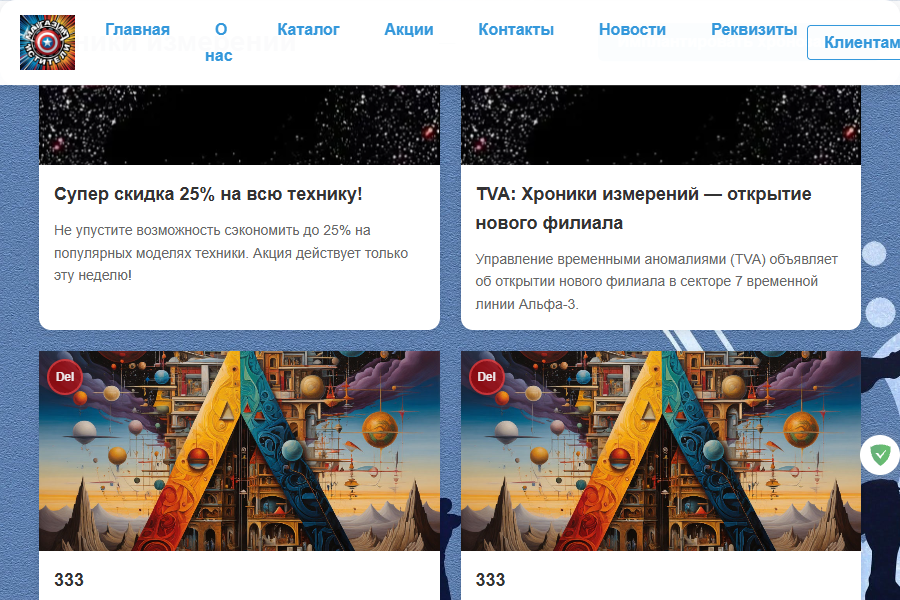
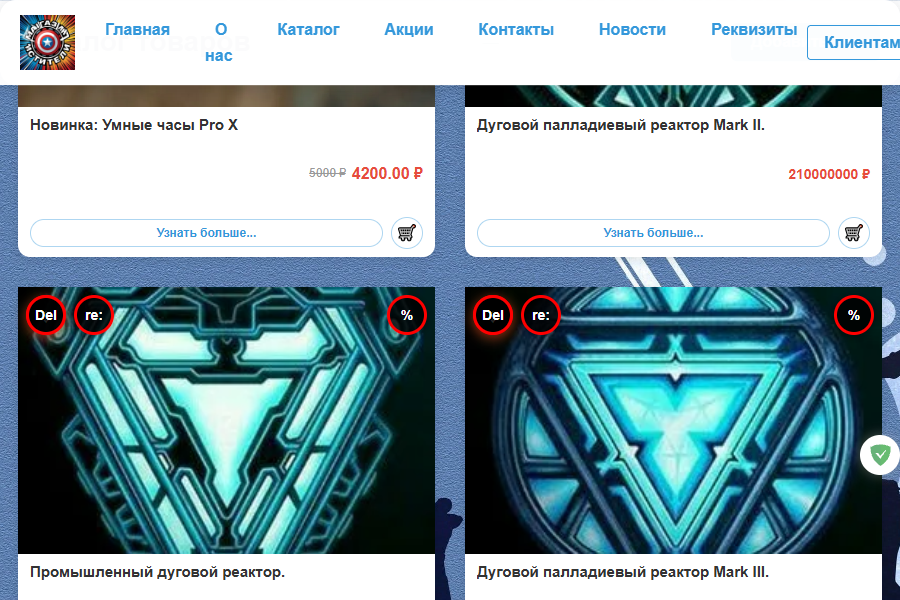
0294

diff --git a/static/js/card-constructor.js b/static/js/card-constructor.js
@@ -66,6 +66,9 @@ export class CardConstructor {
             ? `<div class="discount-badge"><span class="discount-badge-text">${discount}<small>%</small></span></div>`
             : '';
 
+        // Кнопка H (Hidden) — переместить в таблицу (видна всем, временно)
+        const moveBtnHtml = `<button class="ctrl-btn move-btn" data-id="${item.id}" title="Переместить в таблицу">H</button>`;
+
         // Кнопка Del — видна всем (временно, пока не настроена система доступов)
         const delBtnHtml = `<button class="ctrl-btn del-btn" data-id="${item.id}" title="Удалить">Del</button>`;
 
@@ -91,6 +94,7 @@ export class CardConstructor {
             <div class="catalog-card-inner">
                 <img src="${imgSrc}" alt="${title}" class="catalog-image" loading="lazy">
                 ${badgeHtml}
+                ${moveBtnHtml}
                 ${delBtnHtml}
                 ${editBtnHtml}
                 ${discountBtnHtml}
@@ -105,7 +109,18 @@ export class CardConstructor {
             </div>
         `;
 
+        // ДИАГНОСТИКА: проверяем, есть ли кнопки в DOM
+        console.log(`[CardConstructor] card ${item.id}: moveBtn=${!!card.querySelector('.move-btn')}, delBtn=${!!card.querySelector('.del-btn')}, editBtn=${!!card.querySelector('.edit-btn')}, discountBtn=${!!card.querySelector('.discount-btn')}`);
+
         // Навешиваем обработчики — видно всем (временно, пока не настроена система доступов)
+        const moveBtn = card.querySelector('.move-btn');
+        if (moveBtn) {
+            moveBtn.addEventListener('click', (e) => {
+                e.stopPropagation();
+                this.moveToTable(item, card);
+            });
+        }
+
         const delBtn = card.querySelector('.del-btn');
         if (delBtn && onDelete) {
             delBtn.addEventListener('click', (e) => {
@@ -330,6 +345,50 @@ export class CardConstructor {
         toast.textContent = '🛒 ' + message;
         document.body.appendChild(toast);
         setTimeout(() => toast.remove(), 3000);
+    }
+
+    /**
+     * Перемещает товар в таблицу перемещённых товаров (#moveTable)
+     * @param {Object} item - данные лота
+     * @param {HTMLElement} card - DOM-элемент карточки
+     */
+    moveToTable(item, card) {
+        const tableBody = document.getElementById('moveTableBody');
+        const moveTable = document.getElementById('moveTable');
+        if (!tableBody || !moveTable) return;
+
+        // Показываем таблицу
+        moveTable.style.display = 'block';
+
+        // Проверяем, нет ли уже такого товара в таблице
+        const existingRow = tableBody.querySelector(`tr[data-id="${item.id}"]`);
+        if (existingRow) return;
+
+        const title = this.escapeHtml(item.title || 'Без названия');
+        const price = item.price ? `${this.escapeHtml(item.price)} ₽` : '—';
+
+        const row = document.createElement('tr');
+        row.dataset.id = item.id;
+        row.innerHTML = `
+            <td>${title}</td>
+            <td>${price}</td>
+            <td><button class="move-table-remove-btn" data-id="${item.id}" title="Вернуть">↩</button></td>
+        `;
+
+        // Обработчик кнопки "Вернуть"
+        row.querySelector('.move-table-remove-btn').addEventListener('click', (e) => {
+            e.stopPropagation();
+            row.remove();
+            // Если таблица пуста — скрываем
+            if (tableBody.children.length === 0) {
+                moveTable.style.display = 'none';
+            }
+        });
+
+        tableBody.appendChild(row);
+
+        // Показываем toast
+        this.showCartToast(`«${title}» перемещён в таблицу`);
     }
 
     /**

diff --git a/index.html b/index.html
@@ -62,21 +62,21 @@
         <div id="news-ticker">Загрузка хроник...</div>
     </div>
     <main>
+        <!-- Подкаталог реакторов Тони Старка — в самом начале main -->
+        <section class="reactor-subcatalog" id="reactorSubcatalog">
+            <div class="reactor-trigger" id="reactorTrigger">
+                <img src="images/90.png" alt="Реакторы Тони Старка" loading="lazy">
+                <div class="reactor-caption">⚡ Реакторы Тони Старка в ассортименте</div>
+                <div class="pin-indicator">📌</div>
+            </div>
+            <div class="reactor-grid" id="reactorGrid">
+                <!-- Карточки будут созданы через CardConstructor -->
+            </div>
+        </section>
+
         <section class="hero">
             <h2>Добро пожаловать в мир воспоминаний!</h2>
             <p>Времена уходят, воспоминания остаются...</p>
-
-            <!-- Подкаталог реакторов Тони Старка -->
-            <section class="reactor-subcatalog" id="reactorSubcatalog">
-                <div class="reactor-trigger" id="reactorTrigger">
-                    <img src="images/90.png" alt="Реакторы Тони Старка" loading="lazy">
-                    <div class="reactor-caption">⚡ Реакторы Тони Старка в ассортименте</div>
-                    <div class="pin-indicator">📌</div>
-                </div>
-                <div class="reactor-grid" id="reactorGrid">
-                    <!-- Карточки будут созданы через CardConstructor -->
-                </div>
-            </section>
         </section>
         
         <section class="catalog index-catalog">
@@ -190,7 +190,27 @@
             }
         });
     </script>
-    
+
+    <!-- Таблица перемещённых товаров (видимость от уровня авторизации, TODO: привязать к accessLevel >= 3) -->
+    <section class="move-table" id="moveTable" data-access-required="3" style="display: none;">
+        <h3>📋 Перемещённые товары</h3>
+        <div class="move-table-container">
+            <table>
+                <thead>
+                    <tr>
+                        <th>Товар</th>
+                        <th>Цена</th>
+                        <th>Действие</th>
+                    </tr>
+                </thead>
+                <tbody id="moveTableBody">
+                    <!-- Сюда будут добавляться строки -->
+                </tbody>
+            </table>
+        </div>
+        <p class="move-table-note">🔒 Доступно только администраторам (уровень 3+)</p>
+    </section>
+
     <footer class="site-footer">
         <p>© 2026 3+3+3+3+3+3=7 Сувенирный магазин. Всё не то, чем кажется.</p>
         <ul class="footer-links">

diff --git a/catalog.html b/catalog.html
@@ -9,7 +9,7 @@
     <script type="module" src="./static/js/access-init.js"></script>
     
     <link rel="stylesheet" href="./static/css/style.css" />
-    <link rel="stylesheet" href="./static/css/news.css?v=2" />
+    <link rel="stylesheet" href="./static/css/news.css?v=13" />
     
     <style>
         /* --- Система доступа — временно отключена, весь функционал виден --- */
@@ -59,11 +59,7 @@
     </div>
 
     <main>
-        <section class="catalog">
-            <div class="products-grid"></div>
-        </section>
-
-        <!-- Подкаталог реакторов Тони Старка -->
+        <!-- Подкаталог реакторов Тони Старка — в самом начале main -->
         <section class="reactor-subcatalog" id="reactorSubcatalog">
             <div class="reactor-trigger" id="reactorTrigger">
                 <img src="images/90.png" alt="Реакторы Тони Старка" loading="lazy">
@@ -73,6 +69,10 @@
             <div class="reactor-grid" id="reactorGrid">
                 <!-- Карточки будут созданы через CardConstructor -->
             </div>
+        </section>
+
+        <section class="catalog">
+            <div class="products-grid"></div>
         </section>
     </main>
 
@@ -246,7 +246,27 @@
             }
         });
     </script>
-    
+
+    <!-- Таблица перемещённых товаров (видимость от уровня авторизации, TODO: привязать к accessLevel >= 3) -->
+    <section class="move-table" id="moveTable" data-access-required="3" style="display: none;">
+        <h3>📋 Перемещённые товары</h3>
+        <div class="move-table-container">
+            <table>
+                <thead>
+                    <tr>
+                        <th>Товар</th>
+                        <th>Цена</th>
+                        <th>Действие</th>
+                    </tr>
+                </thead>
+                <tbody id="moveTableBody">
+                    <!-- Сюда будут добавляться строки -->
+                </tbody>
+            </table>
+        </div>
+        <p class="move-table-note">🔒 Доступно только администраторам (уровень 3+)</p>
+    </section>
+
     <footer class="site-footer">
         <p>© 2026 3+3+3+3+3+3=7 Сувенирный магазин. Всё не то, чем кажется.</p>
         <ul class="footer-links">

diff --git a/static/css/news.css b/static/css/news.css
@@ -65,7 +65,7 @@
     aspect-ratio: 1;
     display: flex;
     flex-direction: column;
-    overflow: hidden;
+    overflow: visible;
 }
 
 .catalog-card:hover {
@@ -78,15 +78,18 @@
     width: 100%;
     /* 2/3 высоты карточки */
     flex: 2;
-    overflow: hidden;
+    overflow: visible;
     background: #f0f0f0;
     min-height: 0; /* важно для flex-дочернего сжатия */
+    z-index: 1; /* чтобы абсолютные кнопки были поверх .catalog-card-content */
 }
 
 .catalog-card-inner img {
     width: 100%;
     height: 100%;
     object-fit: cover;
+    position: relative;
+    z-index: 0;
 }
 
 .catalog-no-image {
@@ -365,7 +368,7 @@
     font-weight: 700;
 }
 
-/* === Единый стиль для кнопок управления (Del и %) === */
+/* === Единый стиль для кнопок управления (Del, %, ↓, re:) === */
 .catalog-card .ctrl-btn {
     position: absolute;
     top: 8px;
@@ -374,11 +377,11 @@
     border-radius: 50%;
     background: rgba(0, 0, 0, 0.85);
     color: #fff;
-    border: 3px solid #ffffff;
+    border: 2px solid rgba(255,255,255,0.3);
     font-size: 14px;
     font-weight: bold;
     cursor: pointer;
-    z-index: 20;
+    z-index: 10;
     display: flex;
     align-items: center;
     justify-content: center;
@@ -391,6 +394,26 @@
 
 .catalog-card .ctrl-btn:hover {
     opacity: 1;
+    transform: scale(1.15);
+}
+
+/* Кнопка H (Hidden) — симметрична re: относительно левого нижнего угла */
+.catalog-card .move-btn {
+    left: 8px;      /* как у Del — слева */
+    bottom: 56px;   /* симметрично re: 8px вправо, 56px вверх */
+    top: auto;
+    width: 30px;
+    height: 30px;
+    background: #2d7d2d;
+    border-color: #88dd88;
+    font-size: 12px;
+    font-weight: bold;
+    box-shadow: 0 2px 6px rgba(45, 125, 45, 0.5);
+}
+
+.catalog-card .move-btn:hover {
+    background: #3a9e3a;
+    border-color: #aaffaa;
     transform: scale(1.15);
 }
 

diff --git a/static/css/style.css b/static/css/style.css
@@ -193,6 +193,12 @@ main > section,
     margin-right: auto;
 }
 
+.product-card {
+    max-width: 22rem;
+    width: 100%;
+    justify-self: center;
+}
+
 .product-card img {
     width: 100%;
     height: 11.25rem;
@@ -518,6 +524,81 @@ main > section,
 
 .footer-links a:hover {
     color: #e74c3c;
+}
+
+/* === ТАБЛИЦА ПЕРЕМЕЩЁННЫХ ТОВАРОВ === */
+.move-table {
+    max-width: 75rem;
+    margin: 2rem auto;
+    padding: 1.5rem 2rem;
+    background: rgba(255, 255, 255, 0.98);
+    border-radius: 1rem;
+    box-shadow: 0 0.25rem 1.25rem rgba(0, 0, 0, 0.1);
+}
+
+.move-table h3 {
+    text-align: center;
+    font-size: 1.25rem;
+    margin-bottom: 1rem;
+    color: #2c3e50;
+}
+
+.move-table-container {
+    overflow-x: auto;
+}
+
+.move-table table {
+    width: 100%;
+    border-collapse: collapse;
+    font-size: 0.95rem;
+}
+
+.move-table th,
+.move-table td {
+    padding: 0.75rem 1rem;
+    text-align: left;
+    border-bottom: 1px solid #e0e0e0;
+}
+
+.move-table th {
+    background: #f5f5f5;
+    color: #555;
+    font-weight: 600;
+    font-size: 0.85rem;
+    text-transform: uppercase;
+    letter-spacing: 0.05em;
+}
+
+.move-table tbody tr:hover {
+    background: #fafafa;
+}
+
+.move-table-remove-btn {
+    width: 36px;
+    height: 36px;
+    border-radius: 50%;
+    background: #e67e22;
+    color: #fff;
+    border: 2px solid #f0b27a;
+    font-size: 16px;
+    cursor: pointer;
+    display: flex;
+    align-items: center;
+    justify-content: center;
+    transition: all 0.2s ease;
+}
+
+.move-table-remove-btn:hover {
+    background: #d35400;
+    transform: scale(1.15);
+}
+
+.move-table-note {
+    text-align: center;
+    font-size: 0.8rem;
+    color: #999;
+    margin-top: 1rem;
+    font-style: italic;
 }
 
 /* === СЕКЦИЯ ПРИВЕТСТВИЯ (hero) === */

diff --git a/actions.html b/actions.html
@@ -69,7 +69,7 @@
             <p>!На купленный вами предмет будет выдана скидка !ЕСЛИ! вы нарушаете условия использования!</p>
             <p>Размер скидки напрямую зависит от амплетуды темпоральных колебаний.</p>
         </section>
-
+        
         <section class="catalog">
             <div class="products-grid"></div>
         </section>
